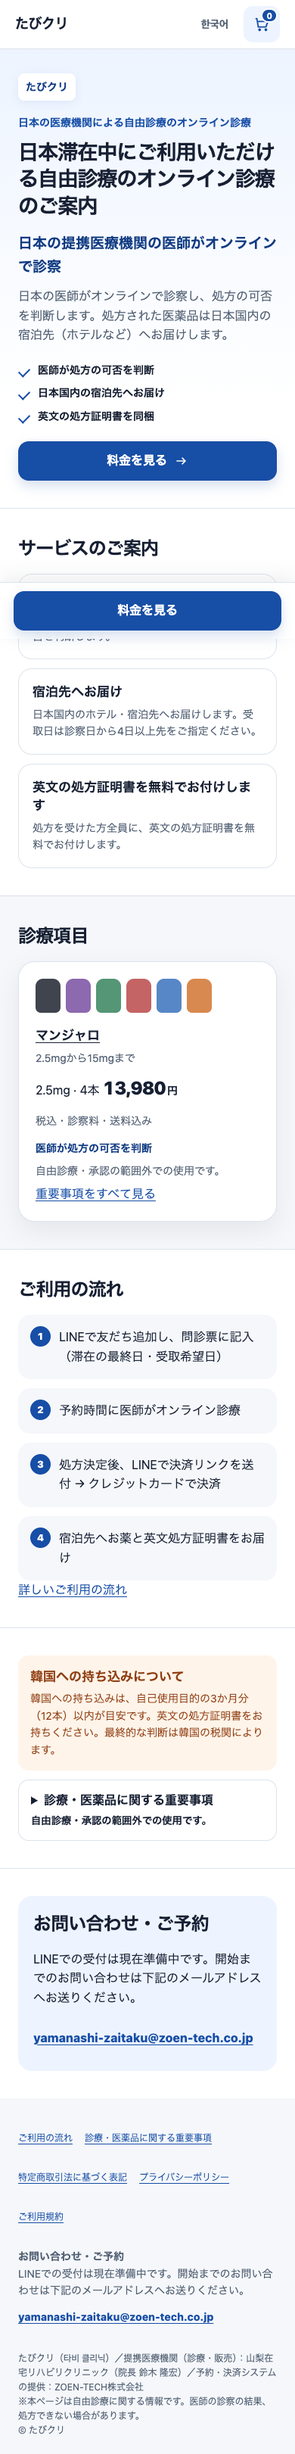
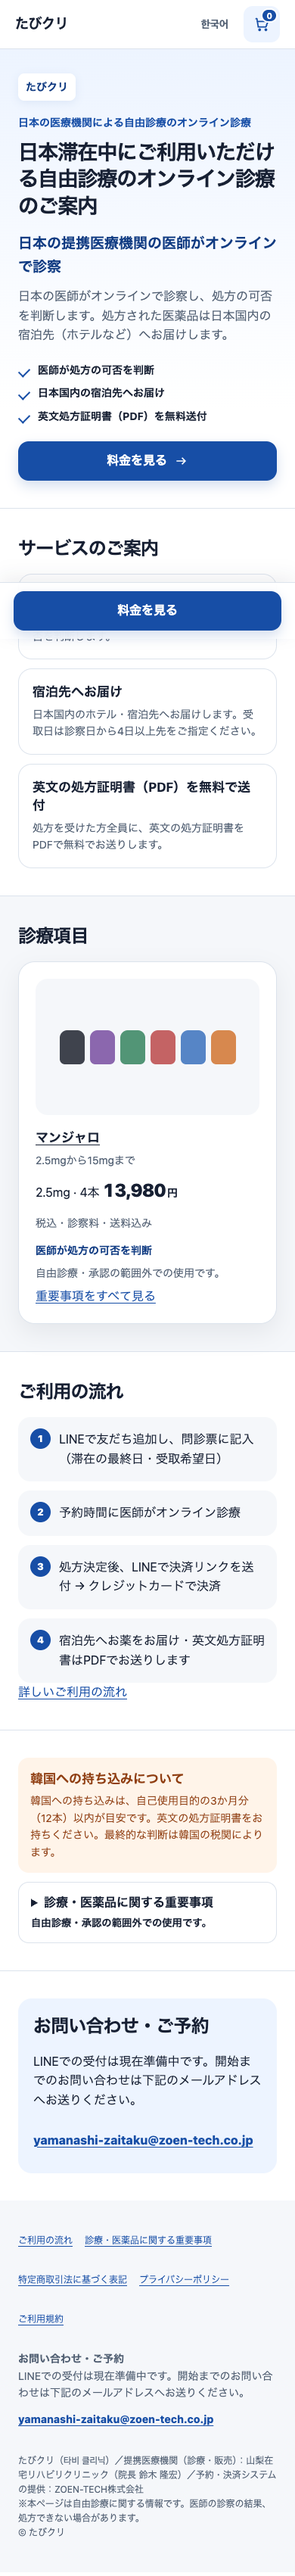
wip: 英文処方証明書はPDF送付に修正・カート/確認画面に診察料・送料・証明書0円と合計の内訳・薬の写真枠
Claude-Session: https://claude.ai/code/session_01Woq8ACZhkQYMQKmAuGwLi9

Changed region(s): [[0.0308, 0.0, 0.9538, 0.7477], [0.0615, 0.7788, 0.9231, 0.9969], [0.7077, 0.4673, 0.7385, 0.4985]]

diff --git a/dist/assets/app.js b/dist/assets/app.js
@@ -20,6 +20,7 @@
     const ui = (key, tag = "span", extra = "") => `<${tag}${attr(`ui.${key}`)}${extra}>${escape(copy.ui[key])}</${tag}>`;
     const reviewed = (key, text, tag = "span", extra = "") => `<${tag}${attr(`reviewed.${key}`)}${extra}>${escape(text)}</${tag}>`;
     const unit = lang === "ko" ? "엔" : "円";
+    const lineSeparator = lang === "ko" ? " · " : "・";
     const number = value => value.toLocaleString(lang === "ko" ? "ko-KR" : "ja-JP");
     const money = value => `<span class="price">${number(value)}<small>${unit}</small></span>`;
     const brand = typeof config.BRAND_NAME === "object" ? config.BRAND_NAME[lang] : config.BRAND_NAME;
@@ -102,12 +103,50 @@
       return `<div class="required-notices"><p>${escape(copy.reviewed.noPrescription)}</p>${ui("physicianChoice", "p")}</div>`;
     }
 
-    function doseArt() {
-      return `<div class="dose-art" aria-hidden="true">${prices.map(() => "<span></span>").join("")}</div>`;
+    function doseSwatches() {
+      return `<div class="dose-art image-fallback" aria-hidden="true" hidden>${prices.map(() => "<span></span>").join("")}</div>`;
+    }
+
+    function productImage(dose = "2.5mg", id = "") {
+      const alt = copy.ui.penAlt.replace("{dose}", dose);
+      return `<div class="product-image-slot" data-product-image${id ? ` id="${id}"` : ""}><img src="/assets/pens/pen-${escape(dose)}.png" alt="${escape(alt)}" width="320" height="180"${attr("ui.penAlt")}>${doseSwatches()}</div>`;
+    }
+
+    function prepareProductImages(scope = root) {
+      scope.querySelectorAll("[data-product-image]").forEach(slot => {
+        const image = slot.querySelector("img");
+        const fallback = slot.querySelector(".image-fallback");
+        const showFallback = () => {
+          image.hidden = true;
+          fallback.hidden = false;
+          slot.dataset.imageFallback = "true";
+        };
+        const showImage = () => {
+          image.hidden = false;
+          fallback.hidden = true;
+          delete slot.dataset.imageFallback;
+        };
+        image.addEventListener("load", showImage, { once: true });
+        image.addEventListener("error", showFallback, { once: true });
+        if (image.complete) image.naturalWidth ? showImage() : showFallback();
+      });
+    }
+
+    function updateProductImage(dose) {
+      const slot = root.querySelector("#selected-product-image");
+      if (!slot) return;
+      const replacement = document.createRange().createContextualFragment(productImage(dose, "selected-product-image"));
+      slot.replaceWith(replacement);
+      prepareProductImages(root);
     }
 
     function summaryLines(state, actions = false) {
-      return `<ul class="cart-lines">${state.lines.map(line => `<li class="cart-line" data-cart-dose="${escape(line.dose)}"><div class="line-main"><strong>${escape(copy.ui.product)} ${escape(line.dose)} · ${line.pens}${escape(copy.ui.pens)}</strong>${money(line.price)}</div>${actions ? `<div class="line-actions"><a class="text-button" href="${href("s2", { dose: line.dose })}">${escape(copy.ui.change)}</a><button class="text-button" type="button" data-remove="${escape(line.dose)}">${escape(copy.ui.remove)}</button></div>` : ""}</li>`).join("")}</ul>`;
+      return `<ul class="cart-lines">${state.lines.map(line => `<li class="cart-line" data-cart-dose="${escape(line.dose)}"><div class="line-main breakdown-row" data-breakdown-line><strong>${escape(copy.ui.product)} ${escape(line.dose)}${lineSeparator}${line.pens}${escape(copy.ui.pens)}</strong>${money(line.price)}</div>${actions ? `<div class="line-actions"><a class="text-button" href="${href("s2", { dose: line.dose })}">${escape(copy.ui.change)}</a><button class="text-button" type="button" data-remove="${escape(line.dose)}">${escape(copy.ui.remove)}</button></div>` : ""}</li>`).join("")}</ul>`;
+    }
+
+    function breakdownTotals(total) {
+      const zeroRows = [["consultationFee", "consultation"], ["deliveryFee", "delivery"], ["certificatePdf", "certificate"]];
+      return `<div class="price-breakdown" data-price-breakdown>${zeroRows.map(([key, type]) => `<div class="breakdown-row" data-breakdown-zero="${type}">${ui(key)}<span class="breakdown-amount">0${unit}</span></div>`).join("")}<div class="breakdown-row breakdown-total"><strong>${ui("totalTaxIncluded")}</strong>${money(total)}</div></div>`;
     }
 
     function bottomBar() {
@@ -122,16 +161,16 @@
 
     function home() {
       const first = prices[0];
-      return `<main id="main"><section class="section hero"><div class="clinic-name">${escape(brand)}</div><div class="eyebrow">${ui("clinicEyebrow")}</div><h1>${escape(copy.reviewed.heroTitle)}</h1><p class="doctor-line">${ui("doctorOnline")}</p><p class="hero-copy">${escape(copy.reviewed.heroBody)}</p><ul class="trust-list"><li>${escape(copy.ui.trust1)}</li><li>${escape(copy.ui.trust2)}</li><li>${escape(copy.ui.trust3)}</li></ul><a class="primary" href="${href("s2")}" data-event="view-prices">${escape(copy.ui.priceView)} ${icon("arrow")}</a></section>
-        <section class="section"><h2>${escape(copy.reviewed.servicesTitle)}</h2><ul class="service-list">${copy.reviewed.services.map((item, index) => `<li class="service-card"><h3>${escape(item.title)}</h3><p${attr(`reviewed.services.${index}.body`)}>${escape(item.body)}</p></li>`).join("")}</ul></section>
-        <section class="section soft"><h2>${ui("catalogTitle")}</h2><article class="product-card">${doseArt()}<h3><a class="product-link" href="${href("s2")}" data-event="view-product">${escape(copy.ui.product)}</a></h3><p class="subtle">${escape(copy.ui.doseRange)}</p><p>${escape(first[0])} · 4${escape(copy.ui.pens)} ${money(first[1])}</p><p class="subtle">${escape(copy.ui.included)}</p>${ui("trust1", "p", ' class="product-assurance"')}${ui("noticeSummary", "p", ' class="product-notice"')}<a href="${href("s6")}">${ui("noticeLink")}</a></article></section>
-        <section class="section"><h2>${escape(copy.reviewed.flowTitle)}</h2><ol class="flow-list">${copy.reviewed.flow.map(item => `<li>${escape(item)}</li>`).join("")}</ol><p><a href="${href("s5")}">${escape(copy.ui.moreGuide)}</a></p></section>
+      return `<main id="main"><section class="section hero"><div class="clinic-name">${escape(brand)}</div><div class="eyebrow">${ui("clinicEyebrow")}</div><h1>${escape(copy.reviewed.heroTitle)}</h1><p class="doctor-line">${ui("doctorOnline")}</p><p class="hero-copy">${escape(copy.reviewed.heroBody)}</p><ul class="trust-list"><li>${escape(copy.ui.trust1)}</li><li>${escape(copy.ui.trust2)}</li><li${attr("ui.trust3")}>${escape(copy.ui.trust3)}</li></ul><a class="primary" href="${href("s2")}" data-event="view-prices">${escape(copy.ui.priceView)} ${icon("arrow")}</a></section>
+        <section class="section"><h2>${escape(copy.reviewed.servicesTitle)}</h2><ul class="service-list">${copy.reviewed.services.map((item, index) => `<li class="service-card"><h3${attr(`reviewed.services.${index}.title`)}>${escape(item.title)}</h3><p${attr(`reviewed.services.${index}.body`)}>${escape(item.body)}</p></li>`).join("")}</ul></section>
+        <section class="section soft"><h2>${ui("catalogTitle")}</h2><article class="product-card">${productImage()}<h3><a class="product-link" href="${href("s2")}" data-event="view-product">${escape(copy.ui.product)}</a></h3><p class="subtle">${escape(copy.ui.doseRange)}</p><p>${escape(first[0])} · 4${escape(copy.ui.pens)} ${money(first[1])}</p><p class="subtle">${escape(copy.ui.included)}</p>${ui("trust1", "p", ' class="product-assurance"')}${ui("noticeSummary", "p", ' class="product-notice"')}<a href="${href("s6")}">${ui("noticeLink")}</a></article></section>
+        <section class="section"><h2>${escape(copy.reviewed.flowTitle)}</h2><ol class="flow-list">${copy.reviewed.flow.map((item, index) => `<li${attr(`reviewed.flow.${index}`)}>${escape(item)}</li>`).join("")}</ol><p><a href="${href("s5")}">${escape(copy.ui.moreGuide)}</a></p></section>
         <section class="section">${importNotice()}${medical()}</section>
         <section class="section"><div class="contact-card"><h2>${escape(copy.reviewed.contactTitle)}</h2>${config.LINE_ADD_URL ? "" : `<p>${escape(copy.reviewed.contactBody)}</p>`}<a class="email" href="mailto:${escape(copy.reviewed.email)}">${escape(copy.reviewed.email)}</a></div></section></main>${bottomBar()}`;
     }
 
     function product() {
-      return `<main id="main"><section class="section"><div class="eyebrow">${escape(copy.ui.product)}</div><h1>${escape(copy.meta.s2)}</h1><p>${ui("doctorOnline")}</p>${doseArt()}</section>
+      return `<main id="main"><section class="section"><div class="eyebrow">${escape(copy.ui.product)}</div><h1>${escape(copy.meta.s2)}</h1><p>${ui("doctorOnline")}</p>${productImage("2.5mg", "selected-product-image")}</section>
         <section class="section" id="selector"><div class="selector-group"><span class="selector-label">${escape(copy.ui.chooseDose)}</span><div class="dose-grid">${prices.map(([dose], index) => `<button class="dose-button" type="button" data-dose="${escape(dose)}" aria-pressed="false" data-event="select-dose"><span class="dose-dot" style="--dose:${["#212631","#7a50a2","#388560","#bc4b4b","#3c73bd","#d27632"][index]}"></span>${escape(dose)}</button>`).join("")}</div>${ui("beginner", "p", ' class="subtle"')}</div>
         <div class="selector-group"><span class="selector-label">${escape(copy.ui.chooseCount)}</span><p class="subtle">${escape(copy.ui.totalCaption)}</p><div class="count-grid">${COUNTS.map(count => `<button class="count-button" type="button" data-pens="${count}" aria-pressed="false" data-event="select-count"><span>${count}${escape(copy.ui.pens)} · ${count / 4}${escape(copy.ui.months)}</span><span class="count-price" data-count-price>—</span></button>`).join("")}</div></div>
         ${importNotice()}${requiredNotices()}<button class="primary" id="add-button" type="button" data-event="add-request" disabled>${ui("add")}</button><p class="disabled-reason" id="disabled-reason"${attr("ui.selectBoth")}>${escape(copy.ui.selectBoth)}</p></section>
@@ -143,7 +182,7 @@
     function cartPage() {
       const state = cart.snapshot();
       if (!state.count) return `<main id="main"><section class="section"><h1>${escape(copy.meta.s3)}</h1>${ui("empty", "p")} ${ui("emptyHelp", "p", ' class="subtle"')}<a class="primary" href="${href("s2")}">${escape(copy.ui.priceView)}</a></section></main>`;
-      return `<main id="main"><section class="section"><h1>${ui("cart")}</h1>${summaryLines(state, true)}<div class="total-box"><div class="total-row"><strong>${ui("fee")}</strong>${money(state.total)}</div><p class="subtle">${escape(copy.ui.includedDetail)}</p></div>${state.volatile ? ui("memoryOnly", "p", ' class="subtle"') : ""}</section><section class="section">${importNotice()}${medical()}${requiredNotices()}<a class="primary" href="${href("s4")}" data-event="proceed-confirm">${ui("reserve")}</a></section></main>${bottomBar()}`;
+      return `<main id="main"><section class="section"><h1>${ui("cart")}</h1>${summaryLines(state, true)}${breakdownTotals(state.total)}${state.volatile ? ui("memoryOnly", "p", ' class="subtle"') : ""}</section><section class="section">${importNotice()}${medical()}${requiredNotices()}<a class="primary" href="${href("s4")}" data-event="proceed-confirm">${ui("reserve")}</a></section></main>${bottomBar()}`;
     }
 
     function legalValue(key) {
@@ -153,9 +192,9 @@
     function confirmPage() {
       const state = cart.snapshot();
       if (!state.count) return `<main id="main"><section class="section"><h1>${escape(copy.meta.s4)}</h1>${ui("empty", "p")}<a class="primary" href="${href("s2")}">${escape(copy.ui.priceView)}</a></section></main>`;
-      const desired = state.lines.map(line => `${line.dose} · ${line.pens}${copy.ui.pens}`).join(" / ");
+      const desired = state.lines.map(line => `${line.dose}${lineSeparator}${line.pens}${copy.ui.pens}`).join(" / ");
       const facts = [
-        [copy.ui.desired, escape(desired)], [copy.ui.amount, `${number(state.total)}${unit}`],
+        [copy.ui.desired, escape(desired)],
         [copy.ui.payment, `${legalValue("paymentTiming")}／${legalValue("paymentMethod")}`, "finalPayment"],
         [copy.ui.deliveryTiming, legalValue("deliveryTiming"), "finalDelivery"], [copy.ui.cancel, legalValue("cancel"), "finalCancel"],
         [copy.ui.notPrescribed, legalValue("notPrescribed"), "finalNotPrescribed"]
@@ -167,13 +206,13 @@
         ? `<button class="primary" id="line-button" type="button" data-event="line-reservation"${attr("ui.lineButton")} disabled>${escape(copy.ui.lineButton)}</button>`
         : `<div class="contact-card" id="line-panel"${attr("ui.readyHelp")}><p>${escape(copy.ui.readyHelp)}</p><a class="email" href="mailto:${escape(copy.reviewed.email)}">${escape(copy.reviewed.email)}</a><p><a href="${href("s5")}">${escape(copy.ui.lineGuideTitle)}</a></p></div>`;
       const handoff = config.LINE_ADD_URL ? ui("handoff", "p", ' class="subtle"') : "";
-      return `<main id="main"><section class="section"><h1>${escape(copy.meta.s4)}</h1><h2>${escape(copy.ui.summary)}</h2>${summaryLines(state)}<p><a href="${href("s3")}">${escape(copy.ui.edit)}</a></p>${handoff}</section>
+      return `<main id="main"><section class="section"><h1>${escape(copy.meta.s4)}</h1><h2>${escape(copy.ui.summary)}</h2>${summaryLines(state)}${breakdownTotals(state.total)}<p><a href="${href("s3")}">${escape(copy.ui.edit)}</a></p>${handoff}</section>
         <section class="section soft"><h2>${escape(copy.ui.finalTitle)}</h2><dl class="fact-list" data-final-facts>${facts.map(fact => `<div><dt>${escape(fact[0])}</dt><dd>${factValue(fact)}</dd></div>`).join("")}</dl></section>
         <section class="section">${medical()}<h2>${escape(copy.ui.agreementTitle)}</h2><div class="agreements">${[1,2,3,4].map(index => `<label class="check"${attr(`ui.agreement${index}`)}><input type="checkbox" required data-agreement><span>${escape(copy.ui[`agreement${index}`])}</span></label>`).join("")}</div>${requiredNotices()}${lineAction}</section></main>`;
     }
 
     function guide() {
-      return `<main id="main"><section class="section"><div class="eyebrow">${escape(copy.ui.guideIntro)}</div><h1>${escape(copy.reviewed.flowTitle)}</h1><ol class="flow-list">${copy.reviewed.flow.map(item => `<li>${escape(item)}</li>`).join("")}</ol></section><section class="section soft"><h2>${escape(copy.ui.scheduleTitle)}</h2>${ui("scheduleBody", "p")}</section><section class="section"><h2>${escape(copy.ui.lineGuideTitle)}</h2><ol class="line-list">${copy.ui.lineSteps.map(item => `<li${attr("ui.lineSteps")}>${escape(item)}</li>`).join("")}</ol></section><section class="section"><h2>${escape(copy.ui.languageTitle)}</h2>${ui("languageBody", "p")}</section></main>`;
+      return `<main id="main"><section class="section"><div class="eyebrow">${escape(copy.ui.guideIntro)}</div><h1>${escape(copy.reviewed.flowTitle)}</h1><ol class="flow-list">${copy.reviewed.flow.map((item, index) => `<li${attr(`reviewed.flow.${index}`)}>${escape(item)}</li>`).join("")}</ol></section><section class="section soft"><h2>${escape(copy.ui.scheduleTitle)}</h2>${ui("scheduleBody", "p")}</section><section class="section"><h2>${escape(copy.ui.lineGuideTitle)}</h2><ol class="line-list">${copy.ui.lineSteps.map(item => `<li${attr("ui.lineSteps")}>${escape(item)}</li>`).join("")}</ol></section><section class="section"><h2>${escape(copy.ui.languageTitle)}</h2>${ui("languageBody", "p")}</section></main>`;
     }
 
     function notice() {
@@ -199,6 +238,7 @@
       root.innerHTML = `<div class="shell">${header()}${renderers[page]()}${footer()}</div>`;
       root.dataset.ready = "true";
       root.setAttribute("aria-busy", "false");
+      prepareProductImages();
       bind();
     };
 
@@ -240,6 +280,7 @@
         if (!prices.some(row => row[0] === dose)) dose = null;
         let pens = null;
         const add = document.querySelector("#add-button");
+        if (dose) updateProductImage(dose);
         const update = () => {
           document.querySelectorAll("[data-dose]").forEach(button => button.setAttribute("aria-pressed", String(button.dataset.dose === dose)));
           document.querySelectorAll("[data-pens]").forEach((button, index) => {
@@ -254,14 +295,16 @@
           if (key && pending.has(key)) { reason.dataset.review = "pending"; reason.dataset.copyKey = key; }
           else { delete reason.dataset.review; delete reason.dataset.copyKey; }
         };
-        root.querySelectorAll("[data-dose]").forEach(button => button.addEventListener("click", () => { dose = button.dataset.dose; pens = null; update(); }));
+        root.querySelectorAll("[data-dose]").forEach(button => button.addEventListener("click", () => { dose = button.dataset.dose; pens = null; updateProductImage(dose); update(); }));
         root.querySelectorAll("[data-pens]").forEach(button => button.addEventListener("click", () => { if (!dose) return; pens = Number(button.dataset.pens); update(); }));
         add.addEventListener("click", () => {
           const result = cart.add(dose, pens);
           if (!result.ok) return;
           const sheetTitle = result.replaced ? "changed" : "added";
           document.querySelector("#sheet-title").outerHTML = ui(sheetTitle, "h2", ' id="sheet-title"');
-          document.querySelector("#added-summary").innerHTML = summaryLines(result.state);
+          const line = result.state.lines.find(item => item.dose === dose);
+          const addedState = { lines: [line], total: line.price };
+          document.querySelector("#added-summary").innerHTML = `${summaryLines(addedState)}${breakdownTotals(addedState.total)}`;
           refreshRequestNavigation();
           document.querySelector("#added-sheet").showModal();
         });

diff --git a/site/src/app.js b/site/src/app.js
@@ -20,6 +20,7 @@
     const ui = (key, tag = "span", extra = "") => `<${tag}${attr(`ui.${key}`)}${extra}>${escape(copy.ui[key])}</${tag}>`;
     const reviewed = (key, text, tag = "span", extra = "") => `<${tag}${attr(`reviewed.${key}`)}${extra}>${escape(text)}</${tag}>`;
     const unit = lang === "ko" ? "엔" : "円";
+    const lineSeparator = lang === "ko" ? " · " : "・";
     const number = value => value.toLocaleString(lang === "ko" ? "ko-KR" : "ja-JP");
     const money = value => `<span class="price">${number(value)}<small>${unit}</small></span>`;
     const brand = typeof config.BRAND_NAME === "object" ? config.BRAND_NAME[lang] : config.BRAND_NAME;
@@ -102,12 +103,50 @@
       return `<div class="required-notices"><p>${escape(copy.reviewed.noPrescription)}</p>${ui("physicianChoice", "p")}</div>`;
     }
 
-    function doseArt() {
-      return `<div class="dose-art" aria-hidden="true">${prices.map(() => "<span></span>").join("")}</div>`;
+    function doseSwatches() {
+      return `<div class="dose-art image-fallback" aria-hidden="true" hidden>${prices.map(() => "<span></span>").join("")}</div>`;
+    }
+
+    function productImage(dose = "2.5mg", id = "") {
+      const alt = copy.ui.penAlt.replace("{dose}", dose);
+      return `<div class="product-image-slot" data-product-image${id ? ` id="${id}"` : ""}><img src="/assets/pens/pen-${escape(dose)}.png" alt="${escape(alt)}" width="320" height="180"${attr("ui.penAlt")}>${doseSwatches()}</div>`;
+    }
+
+    function prepareProductImages(scope = root) {
+      scope.querySelectorAll("[data-product-image]").forEach(slot => {
+        const image = slot.querySelector("img");
+        const fallback = slot.querySelector(".image-fallback");
+        const showFallback = () => {
+          image.hidden = true;
+          fallback.hidden = false;
+          slot.dataset.imageFallback = "true";
+        };
+        const showImage = () => {
+          image.hidden = false;
+          fallback.hidden = true;
+          delete slot.dataset.imageFallback;
+        };
+        image.addEventListener("load", showImage, { once: true });
+        image.addEventListener("error", showFallback, { once: true });
+        if (image.complete) image.naturalWidth ? showImage() : showFallback();
+      });
+    }
+
+    function updateProductImage(dose) {
+      const slot = root.querySelector("#selected-product-image");
+      if (!slot) return;
+      const replacement = document.createRange().createContextualFragment(productImage(dose, "selected-product-image"));
+      slot.replaceWith(replacement);
+      prepareProductImages(root);
     }
 
     function summaryLines(state, actions = false) {
-      return `<ul class="cart-lines">${state.lines.map(line => `<li class="cart-line" data-cart-dose="${escape(line.dose)}"><div class="line-main"><strong>${escape(copy.ui.product)} ${escape(line.dose)} · ${line.pens}${escape(copy.ui.pens)}</strong>${money(line.price)}</div>${actions ? `<div class="line-actions"><a class="text-button" href="${href("s2", { dose: line.dose })}">${escape(copy.ui.change)}</a><button class="text-button" type="button" data-remove="${escape(line.dose)}">${escape(copy.ui.remove)}</button></div>` : ""}</li>`).join("")}</ul>`;
+      return `<ul class="cart-lines">${state.lines.map(line => `<li class="cart-line" data-cart-dose="${escape(line.dose)}"><div class="line-main breakdown-row" data-breakdown-line><strong>${escape(copy.ui.product)} ${escape(line.dose)}${lineSeparator}${line.pens}${escape(copy.ui.pens)}</strong>${money(line.price)}</div>${actions ? `<div class="line-actions"><a class="text-button" href="${href("s2", { dose: line.dose })}">${escape(copy.ui.change)}</a><button class="text-button" type="button" data-remove="${escape(line.dose)}">${escape(copy.ui.remove)}</button></div>` : ""}</li>`).join("")}</ul>`;
+    }
+
+    function breakdownTotals(total) {
+      const zeroRows = [["consultationFee", "consultation"], ["deliveryFee", "delivery"], ["certificatePdf", "certificate"]];
+      return `<div class="price-breakdown" data-price-breakdown>${zeroRows.map(([key, type]) => `<div class="breakdown-row" data-breakdown-zero="${type}">${ui(key)}<span class="breakdown-amount">0${unit}</span></div>`).join("")}<div class="breakdown-row breakdown-total"><strong>${ui("totalTaxIncluded")}</strong>${money(total)}</div></div>`;
     }
 
     function bottomBar() {
@@ -122,16 +161,16 @@
 
     function home() {
       const first = prices[0];
-      return `<main id="main"><section class="section hero"><div class="clinic-name">${escape(brand)}</div><div class="eyebrow">${ui("clinicEyebrow")}</div><h1>${escape(copy.reviewed.heroTitle)}</h1><p class="doctor-line">${ui("doctorOnline")}</p><p class="hero-copy">${escape(copy.reviewed.heroBody)}</p><ul class="trust-list"><li>${escape(copy.ui.trust1)}</li><li>${escape(copy.ui.trust2)}</li><li>${escape(copy.ui.trust3)}</li></ul><a class="primary" href="${href("s2")}" data-event="view-prices">${escape(copy.ui.priceView)} ${icon("arrow")}</a></section>
-        <section class="section"><h2>${escape(copy.reviewed.servicesTitle)}</h2><ul class="service-list">${copy.reviewed.services.map((item, index) => `<li class="service-card"><h3>${escape(item.title)}</h3><p${attr(`reviewed.services.${index}.body`)}>${escape(item.body)}</p></li>`).join("")}</ul></section>
-        <section class="section soft"><h2>${ui("catalogTitle")}</h2><article class="product-card">${doseArt()}<h3><a class="product-link" href="${href("s2")}" data-event="view-product">${escape(copy.ui.product)}</a></h3><p class="subtle">${escape(copy.ui.doseRange)}</p><p>${escape(first[0])} · 4${escape(copy.ui.pens)} ${money(first[1])}</p><p class="subtle">${escape(copy.ui.included)}</p>${ui("trust1", "p", ' class="product-assurance"')}${ui("noticeSummary", "p", ' class="product-notice"')}<a href="${href("s6")}">${ui("noticeLink")}</a></article></section>
-        <section class="section"><h2>${escape(copy.reviewed.flowTitle)}</h2><ol class="flow-list">${copy.reviewed.flow.map(item => `<li>${escape(item)}</li>`).join("")}</ol><p><a href="${href("s5")}">${escape(copy.ui.moreGuide)}</a></p></section>
+      return `<main id="main"><section class="section hero"><div class="clinic-name">${escape(brand)}</div><div class="eyebrow">${ui("clinicEyebrow")}</div><h1>${escape(copy.reviewed.heroTitle)}</h1><p class="doctor-line">${ui("doctorOnline")}</p><p class="hero-copy">${escape(copy.reviewed.heroBody)}</p><ul class="trust-list"><li>${escape(copy.ui.trust1)}</li><li>${escape(copy.ui.trust2)}</li><li${attr("ui.trust3")}>${escape(copy.ui.trust3)}</li></ul><a class="primary" href="${href("s2")}" data-event="view-prices">${escape(copy.ui.priceView)} ${icon("arrow")}</a></section>
+        <section class="section"><h2>${escape(copy.reviewed.servicesTitle)}</h2><ul class="service-list">${copy.reviewed.services.map((item, index) => `<li class="service-card"><h3${attr(`reviewed.services.${index}.title`)}>${escape(item.title)}</h3><p${attr(`reviewed.services.${index}.body`)}>${escape(item.body)}</p></li>`).join("")}</ul></section>
+        <section class="section soft"><h2>${ui("catalogTitle")}</h2><article class="product-card">${productImage()}<h3><a class="product-link" href="${href("s2")}" data-event="view-product">${escape(copy.ui.product)}</a></h3><p class="subtle">${escape(copy.ui.doseRange)}</p><p>${escape(first[0])} · 4${escape(copy.ui.pens)} ${money(first[1])}</p><p class="subtle">${escape(copy.ui.included)}</p>${ui("trust1", "p", ' class="product-assurance"')}${ui("noticeSummary", "p", ' class="product-notice"')}<a href="${href("s6")}">${ui("noticeLink")}</a></article></section>
+        <section class="section"><h2>${escape(copy.reviewed.flowTitle)}</h2><ol class="flow-list">${copy.reviewed.flow.map((item, index) => `<li${attr(`reviewed.flow.${index}`)}>${escape(item)}</li>`).join("")}</ol><p><a href="${href("s5")}">${escape(copy.ui.moreGuide)}</a></p></section>
         <section class="section">${importNotice()}${medical()}</section>
         <section class="section"><div class="contact-card"><h2>${escape(copy.reviewed.contactTitle)}</h2>${config.LINE_ADD_URL ? "" : `<p>${escape(copy.reviewed.contactBody)}</p>`}<a class="email" href="mailto:${escape(copy.reviewed.email)}">${escape(copy.reviewed.email)}</a></div></section></main>${bottomBar()}`;
     }
 
     function product() {
-      return `<main id="main"><section class="section"><div class="eyebrow">${escape(copy.ui.product)}</div><h1>${escape(copy.meta.s2)}</h1><p>${ui("doctorOnline")}</p>${doseArt()}</section>
+      return `<main id="main"><section class="section"><div class="eyebrow">${escape(copy.ui.product)}</div><h1>${escape(copy.meta.s2)}</h1><p>${ui("doctorOnline")}</p>${productImage("2.5mg", "selected-product-image")}</section>
         <section class="section" id="selector"><div class="selector-group"><span class="selector-label">${escape(copy.ui.chooseDose)}</span><div class="dose-grid">${prices.map(([dose], index) => `<button class="dose-button" type="button" data-dose="${escape(dose)}" aria-pressed="false" data-event="select-dose"><span class="dose-dot" style="--dose:${["#212631","#7a50a2","#388560","#bc4b4b","#3c73bd","#d27632"][index]}"></span>${escape(dose)}</button>`).join("")}</div>${ui("beginner", "p", ' class="subtle"')}</div>
         <div class="selector-group"><span class="selector-label">${escape(copy.ui.chooseCount)}</span><p class="subtle">${escape(copy.ui.totalCaption)}</p><div class="count-grid">${COUNTS.map(count => `<button class="count-button" type="button" data-pens="${count}" aria-pressed="false" data-event="select-count"><span>${count}${escape(copy.ui.pens)} · ${count / 4}${escape(copy.ui.months)}</span><span class="count-price" data-count-price>—</span></button>`).join("")}</div></div>
         ${importNotice()}${requiredNotices()}<button class="primary" id="add-button" type="button" data-event="add-request" disabled>${ui("add")}</button><p class="disabled-reason" id="disabled-reason"${attr("ui.selectBoth")}>${escape(copy.ui.selectBoth)}</p></section>
@@ -143,7 +182,7 @@
     function cartPage() {
       const state = cart.snapshot();
       if (!state.count) return `<main id="main"><section class="section"><h1>${escape(copy.meta.s3)}</h1>${ui("empty", "p")} ${ui("emptyHelp", "p", ' class="subtle"')}<a class="primary" href="${href("s2")}">${escape(copy.ui.priceView)}</a></section></main>`;
-      return `<main id="main"><section class="section"><h1>${ui("cart")}</h1>${summaryLines(state, true)}<div class="total-box"><div class="total-row"><strong>${ui("fee")}</strong>${money(state.total)}</div><p class="subtle">${escape(copy.ui.includedDetail)}</p></div>${state.volatile ? ui("memoryOnly", "p", ' class="subtle"') : ""}</section><section class="section">${importNotice()}${medical()}${requiredNotices()}<a class="primary" href="${href("s4")}" data-event="proceed-confirm">${ui("reserve")}</a></section></main>${bottomBar()}`;
+      return `<main id="main"><section class="section"><h1>${ui("cart")}</h1>${summaryLines(state, true)}${breakdownTotals(state.total)}${state.volatile ? ui("memoryOnly", "p", ' class="subtle"') : ""}</section><section class="section">${importNotice()}${medical()}${requiredNotices()}<a class="primary" href="${href("s4")}" data-event="proceed-confirm">${ui("reserve")}</a></section></main>${bottomBar()}`;
     }
 
     function legalValue(key) {
@@ -153,9 +192,9 @@
     function confirmPage() {
       const state = cart.snapshot();
       if (!state.count) return `<main id="main"><section class="section"><h1>${escape(copy.meta.s4)}</h1>${ui("empty", "p")}<a class="primary" href="${href("s2")}">${escape(copy.ui.priceView)}</a></section></main>`;
-      const desired = state.lines.map(line => `${line.dose} · ${line.pens}${copy.ui.pens}`).join(" / ");
+      const desired = state.lines.map(line => `${line.dose}${lineSeparator}${line.pens}${copy.ui.pens}`).join(" / ");
       const facts = [
-        [copy.ui.desired, escape(desired)], [copy.ui.amount, `${number(state.total)}${unit}`],
+        [copy.ui.desired, escape(desired)],
         [copy.ui.payment, `${legalValue("paymentTiming")}／${legalValue("paymentMethod")}`, "finalPayment"],
         [copy.ui.deliveryTiming, legalValue("deliveryTiming"), "finalDelivery"], [copy.ui.cancel, legalValue("cancel"), "finalCancel"],
         [copy.ui.notPrescribed, legalValue("notPrescribed"), "finalNotPrescribed"]
@@ -167,13 +206,13 @@
         ? `<button class="primary" id="line-button" type="button" data-event="line-reservation"${attr("ui.lineButton")} disabled>${escape(copy.ui.lineButton)}</button>`
         : `<div class="contact-card" id="line-panel"${attr("ui.readyHelp")}><p>${escape(copy.ui.readyHelp)}</p><a class="email" href="mailto:${escape(copy.reviewed.email)}">${escape(copy.reviewed.email)}</a><p><a href="${href("s5")}">${escape(copy.ui.lineGuideTitle)}</a></p></div>`;
       const handoff = config.LINE_ADD_URL ? ui("handoff", "p", ' class="subtle"') : "";
-      return `<main id="main"><section class="section"><h1>${escape(copy.meta.s4)}</h1><h2>${escape(copy.ui.summary)}</h2>${summaryLines(state)}<p><a href="${href("s3")}">${escape(copy.ui.edit)}</a></p>${handoff}</section>
+      return `<main id="main"><section class="section"><h1>${escape(copy.meta.s4)}</h1><h2>${escape(copy.ui.summary)}</h2>${summaryLines(state)}${breakdownTotals(state.total)}<p><a href="${href("s3")}">${escape(copy.ui.edit)}</a></p>${handoff}</section>
         <section class="section soft"><h2>${escape(copy.ui.finalTitle)}</h2><dl class="fact-list" data-final-facts>${facts.map(fact => `<div><dt>${escape(fact[0])}</dt><dd>${factValue(fact)}</dd></div>`).join("")}</dl></section>
         <section class="section">${medical()}<h2>${escape(copy.ui.agreementTitle)}</h2><div class="agreements">${[1,2,3,4].map(index => `<label class="check"${attr(`ui.agreement${index}`)}><input type="checkbox" required data-agreement><span>${escape(copy.ui[`agreement${index}`])}</span></label>`).join("")}</div>${requiredNotices()}${lineAction}</section></main>`;
     }
 
     function guide() {
-      return `<main id="main"><section class="section"><div class="eyebrow">${escape(copy.ui.guideIntro)}</div><h1>${escape(copy.reviewed.flowTitle)}</h1><ol class="flow-list">${copy.reviewed.flow.map(item => `<li>${escape(item)}</li>`).join("")}</ol></section><section class="section soft"><h2>${escape(copy.ui.scheduleTitle)}</h2>${ui("scheduleBody", "p")}</section><section class="section"><h2>${escape(copy.ui.lineGuideTitle)}</h2><ol class="line-list">${copy.ui.lineSteps.map(item => `<li${attr("ui.lineSteps")}>${escape(item)}</li>`).join("")}</ol></section><section class="section"><h2>${escape(copy.ui.languageTitle)}</h2>${ui("languageBody", "p")}</section></main>`;
+      return `<main id="main"><section class="section"><div class="eyebrow">${escape(copy.ui.guideIntro)}</div><h1>${escape(copy.reviewed.flowTitle)}</h1><ol class="flow-list">${copy.reviewed.flow.map((item, index) => `<li${attr(`reviewed.flow.${index}`)}>${escape(item)}</li>`).join("")}</ol></section><section class="section soft"><h2>${escape(copy.ui.scheduleTitle)}</h2>${ui("scheduleBody", "p")}</section><section class="section"><h2>${escape(copy.ui.lineGuideTitle)}</h2><ol class="line-list">${copy.ui.lineSteps.map(item => `<li${attr("ui.lineSteps")}>${escape(item)}</li>`).join("")}</ol></section><section class="section"><h2>${escape(copy.ui.languageTitle)}</h2>${ui("languageBody", "p")}</section></main>`;
     }
 
     function notice() {
@@ -199,6 +238,7 @@
       root.innerHTML = `<div class="shell">${header()}${renderers[page]()}${footer()}</div>`;
       root.dataset.ready = "true";
       root.setAttribute("aria-busy", "false");
+      prepareProductImages();
       bind();
     };
 
@@ -240,6 +280,7 @@
         if (!prices.some(row => row[0] === dose)) dose = null;
         let pens = null;
         const add = document.querySelector("#add-button");
+        if (dose) updateProductImage(dose);
         const update = () => {
           document.querySelectorAll("[data-dose]").forEach(button => button.setAttribute("aria-pressed", String(button.dataset.dose === dose)));
           document.querySelectorAll("[data-pens]").forEach((button, index) => {
@@ -254,14 +295,16 @@
           if (key && pending.has(key)) { reason.dataset.review = "pending"; reason.dataset.copyKey = key; }
           else { delete reason.dataset.review; delete reason.dataset.copyKey; }
         };
-        root.querySelectorAll("[data-dose]").forEach(button => button.addEventListener("click", () => { dose = button.dataset.dose; pens = null; update(); }));
+        root.querySelectorAll("[data-dose]").forEach(button => button.addEventListener("click", () => { dose = button.dataset.dose; pens = null; updateProductImage(dose); update(); }));
         root.querySelectorAll("[data-pens]").forEach(button => button.addEventListener("click", () => { if (!dose) return; pens = Number(button.dataset.pens); update(); }));
         add.addEventListener("click", () => {
           const result = cart.add(dose, pens);
           if (!result.ok) return;
           const sheetTitle = result.replaced ? "changed" : "added";
           document.querySelector("#sheet-title").outerHTML = ui(sheetTitle, "h2", ' id="sheet-title"');
-          document.querySelector("#added-summary").innerHTML = summaryLines(result.state);
+          const line = result.state.lines.find(item => item.dose === dose);
+          const addedState = { lines: [line], total: line.price };
+          document.querySelector("#added-summary").innerHTML = `${summaryLines(addedState)}${breakdownTotals(addedState.total)}`;
           refreshRequestNavigation();
           document.querySelector("#added-sheet").showModal();
         });

diff --git a/dist/assets/styles.css b/dist/assets/styles.css
@@ -67,7 +67,10 @@ p:last-child { margin-bottom: 0; }
 .product-assurance, .product-notice { margin-bottom: 7px; font-size: 14px; }
 .product-assurance { color: var(--accent-dark); font-weight: 700; }
 .product-notice { color: var(--muted); }
-.dose-art { display: flex; gap: 7px; margin-bottom: 18px; }
+.product-image-slot { display: grid; min-height: 180px; place-items: center; margin-bottom: 18px; border-radius: 16px; background: var(--soft); overflow: hidden; }
+.product-image-slot img { display: block; width: 100%; height: 180px; object-fit: contain; }
+.product-image-slot img[hidden], .product-image-slot .image-fallback[hidden] { display: none; }
+.dose-art { display: flex; gap: 7px; align-items: center; justify-content: center; margin: 0; }
 .dose-art span { width: 33px; height: 45px; border-radius: 10px 10px 7px 7px; background: var(--dose); opacity: .86; }
 .dose-art span:nth-child(1) { --dose:#212631; } .dose-art span:nth-child(2) { --dose:#7a50a2; } .dose-art span:nth-child(3) { --dose:#388560; } .dose-art span:nth-child(4) { --dose:#bc4b4b; } .dose-art span:nth-child(5) { --dose:#3c73bd; } .dose-art span:nth-child(6) { --dose:#d27632; }
 .price { font-size: 26px; line-height: 1.2; font-weight: 850; font-variant-numeric: tabular-nums; letter-spacing: -.03em; }
@@ -103,9 +106,14 @@ th:first-child, td:first-child { position: sticky; left: 0; z-index: 1; border-r
 th:first-child { background: var(--soft); }
 .cart-lines { display: grid; gap: 12px; margin: 0; padding: 0; list-style: none; }
 .cart-line { padding: 17px; border: 1px solid var(--line); border-radius: 16px; }
-.line-main, .line-actions, .total-row { display: flex; align-items: center; justify-content: space-between; gap: 12px; }
+.line-main, .line-actions, .breakdown-row { display: flex; align-items: center; justify-content: space-between; gap: 12px; }
 .line-actions { justify-content: flex-end; margin-top: 12px; }
-.total-box { margin-top: 18px; padding: 20px; border-radius: 18px; background: var(--accent-soft); }
+.price-breakdown { margin-top: 14px; padding: 16px 18px; border-radius: 18px; background: var(--accent-soft); }
+.price-breakdown .breakdown-row { min-height: 34px; color: var(--muted); font-size: 14px; }
+.breakdown-amount { font-weight: 750; font-variant-numeric: tabular-nums; }
+.breakdown-total { margin-top: 8px; padding-top: 13px; border-top: 1px solid var(--accent); color: var(--ink) !important; }
+.breakdown-total strong { font-size: 17px; }
+.breakdown-total .price { font-size: 32px; }
 .fact-list { margin: 0; }
 .fact-list div, .law div { border-top: 1px solid var(--line); }
 .fact-list dt, .law dt { padding: 13px 0 4px; font-size: 13px; font-weight: 800; color: var(--muted); }

diff --git a/site/src/styles.css b/site/src/styles.css
@@ -67,7 +67,10 @@ p:last-child { margin-bottom: 0; }
 .product-assurance, .product-notice { margin-bottom: 7px; font-size: 14px; }
 .product-assurance { color: var(--accent-dark); font-weight: 700; }
 .product-notice { color: var(--muted); }
-.dose-art { display: flex; gap: 7px; margin-bottom: 18px; }
+.product-image-slot { display: grid; min-height: 180px; place-items: center; margin-bottom: 18px; border-radius: 16px; background: var(--soft); overflow: hidden; }
+.product-image-slot img { display: block; width: 100%; height: 180px; object-fit: contain; }
+.product-image-slot img[hidden], .product-image-slot .image-fallback[hidden] { display: none; }
+.dose-art { display: flex; gap: 7px; align-items: center; justify-content: center; margin: 0; }
 .dose-art span { width: 33px; height: 45px; border-radius: 10px 10px 7px 7px; background: var(--dose); opacity: .86; }
 .dose-art span:nth-child(1) { --dose:#212631; } .dose-art span:nth-child(2) { --dose:#7a50a2; } .dose-art span:nth-child(3) { --dose:#388560; } .dose-art span:nth-child(4) { --dose:#bc4b4b; } .dose-art span:nth-child(5) { --dose:#3c73bd; } .dose-art span:nth-child(6) { --dose:#d27632; }
 .price { font-size: 26px; line-height: 1.2; font-weight: 850; font-variant-numeric: tabular-nums; letter-spacing: -.03em; }
@@ -103,9 +106,14 @@ th:first-child, td:first-child { position: sticky; left: 0; z-index: 1; border-r
 th:first-child { background: var(--soft); }
 .cart-lines { display: grid; gap: 12px; margin: 0; padding: 0; list-style: none; }
 .cart-line { padding: 17px; border: 1px solid var(--line); border-radius: 16px; }
-.line-main, .line-actions, .total-row { display: flex; align-items: center; justify-content: space-between; gap: 12px; }
+.line-main, .line-actions, .breakdown-row { display: flex; align-items: center; justify-content: space-between; gap: 12px; }
 .line-actions { justify-content: flex-end; margin-top: 12px; }
-.total-box { margin-top: 18px; padding: 20px; border-radius: 18px; background: var(--accent-soft); }
+.price-breakdown { margin-top: 14px; padding: 16px 18px; border-radius: 18px; background: var(--accent-soft); }
+.price-breakdown .breakdown-row { min-height: 34px; color: var(--muted); font-size: 14px; }
+.breakdown-amount { font-weight: 750; font-variant-numeric: tabular-nums; }
+.breakdown-total { margin-top: 8px; padding-top: 13px; border-top: 1px solid var(--accent); color: var(--ink) !important; }
+.breakdown-total strong { font-size: 17px; }
+.breakdown-total .price { font-size: 32px; }
 .fact-list { margin: 0; }
 .fact-list div, .law div { border-top: 1px solid var(--line); }
 .fact-list dt, .law dt { padding: 13px 0 4px; font-size: 13px; font-weight: 800; color: var(--muted); }
